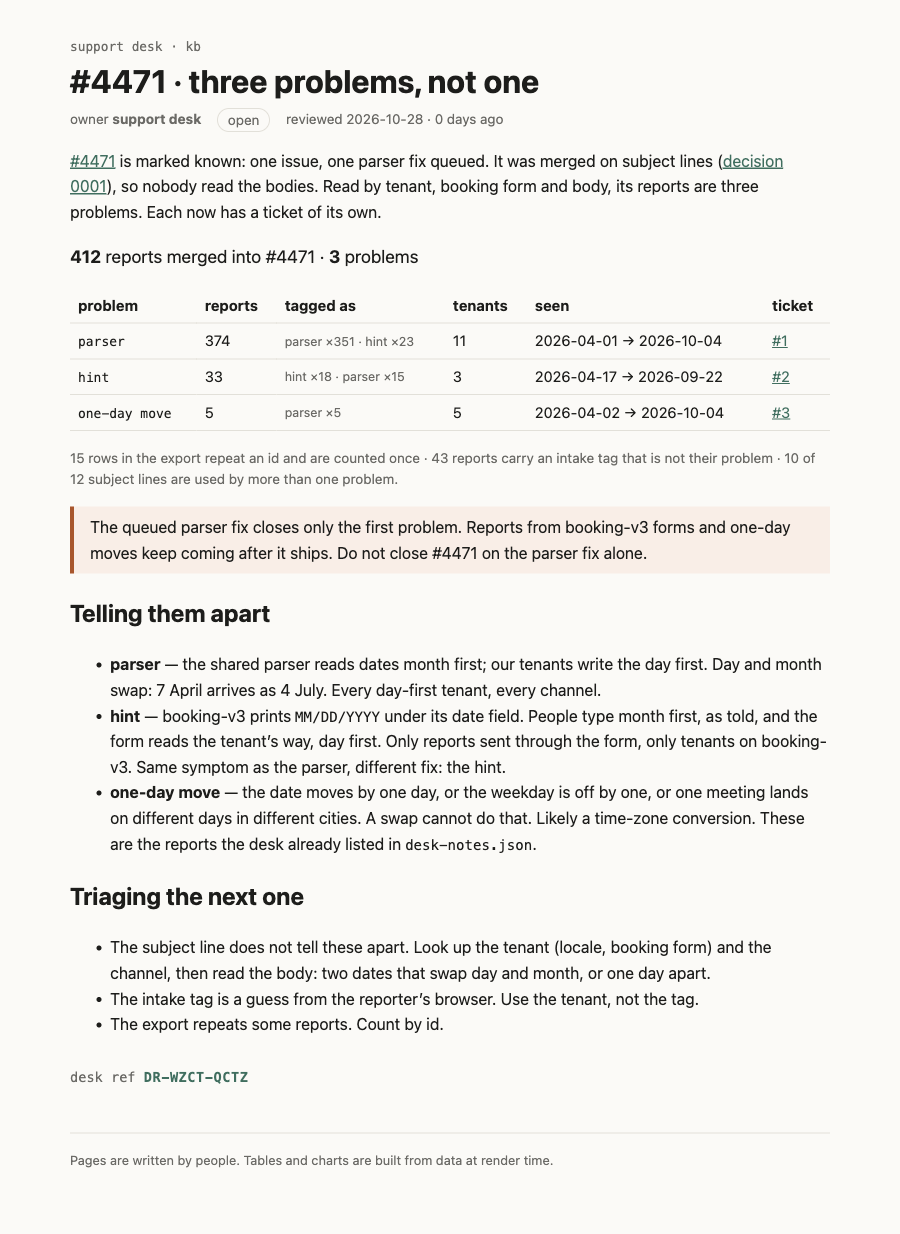
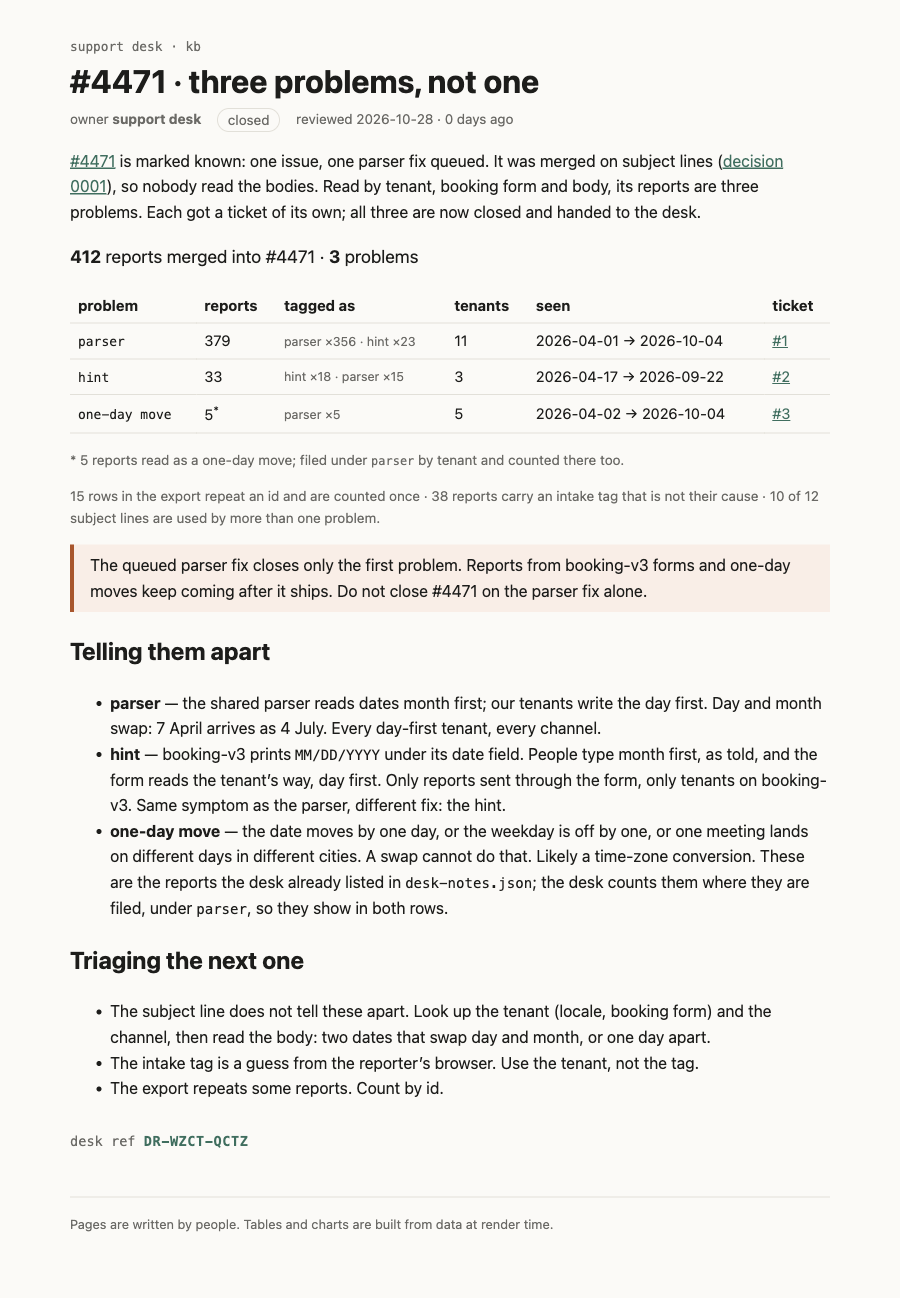
kb: count #4471 the desk's way and mark the page closed
The table now counts with causes.ts as CauseTable does (parser 379, hint 33);
the 5 one-day moves keep their own row and ticket (#3) and stay counted
under parser, footnoted. Status closed now that #1-#3 are closed.

Closes #1, closes #2, closes #3

diff --git a/rendered/kb/incidents/4471/problems.html b/rendered/kb/incidents/4471/problems.html
@@ -7,48 +7,50 @@
 		<link href="../../../_app/immutable/assets/runbook.9BJ9BomY.css" rel="stylesheet">
 		<link href="../../../_app/immutable/assets/Callout.89E4ZsOX.css" rel="stylesheet">
 		<link href="../../../_app/immutable/assets/5.DFZPpw6K.css" rel="stylesheet">
-		<link rel="modulepreload" href="../../../_app/immutable/entry/start.j34q6212.js">
-		<link rel="modulepreload" href="../../../_app/immutable/chunks/B_lZjKO2.js">
+		<link rel="modulepreload" href="../../../_app/immutable/entry/start.BfvUmVHq.js">
+		<link rel="modulepreload" href="../../../_app/immutable/chunks/DgwvHwfo.js">
 		<link rel="modulepreload" href="../../../_app/immutable/chunks/OUkhQVgo.js">
 		<link rel="modulepreload" href="../../../_app/immutable/chunks/ckwQM39j.js">
-		<link rel="modulepreload" href="../../../_app/immutable/entry/app.PN7NgpA0.js">
+		<link rel="modulepreload" href="../../../_app/immutable/entry/app.Di8nDS41.js">
 		<link rel="modulepreload" href="../../../_app/immutable/chunks/B8TagHf_.js">
 		<link rel="modulepreload" href="../../../_app/immutable/chunks/BBiQsO4w.js">
 		<link rel="modulepreload" href="../../../_app/immutable/chunks/bUiQWyxm.js">
 		<link rel="modulepreload" href="../../../_app/immutable/nodes/0.pCjtogOv.js">
 		<link rel="modulepreload" href="../../../_app/immutable/chunks/ZxS--dmv.js">
-		<link rel="modulepreload" href="../../../_app/immutable/nodes/5.d9WlOJNj.js">
-		<link rel="modulepreload" href="../../../_app/immutable/chunks/I3njgYyx.js">
+		<link rel="modulepreload" href="../../../_app/immutable/nodes/5.234NkasA.js">
+		<link rel="modulepreload" href="../../../_app/immutable/chunks/CSFHfQN2.js">
 		<link rel="modulepreload" href="../../../_app/immutable/chunks/CnOLKV4D.js">
 		<link rel="modulepreload" href="../../../_app/immutable/chunks/BDcFOay9.js">
 		<link rel="modulepreload" href="../../../_app/immutable/chunks/oxgkN3_B.js">
 		<link rel="modulepreload" href="../../../_app/immutable/chunks/iXLSwIXB.js"><!--[--><!--]--><title>#4471 · three problems, not one · support kb</title>
   </head>
   <body data-sveltekit-preload-data="hover">
-    <div style="display: contents"><!--[--><!--[--><!----><!----><div class="kb svelte-60g32v"><header><a class="crumb svelte-60g32v" href="/kb">support desk · kb</a> <h1 class="svelte-60g32v">#4471 · three problems, not one</h1> <p class="meta svelte-60g32v"><span>owner <b>support desk</b></span> <span class="status open svelte-60g32v">open</span> <span class="svelte-60g32v">reviewed 2026-10-28 · 0 days ago</span></p></header> <!--[!--><!--]--> <main><p><a href="/kb/incidents/4471">#4471</a> is marked known: one issue, one parser fix queued. It was merged on
+    <div style="display: contents"><!--[--><!--[--><!----><!----><div class="kb svelte-60g32v"><header><a class="crumb svelte-60g32v" href="/kb">support desk · kb</a> <h1 class="svelte-60g32v">#4471 · three problems, not one</h1> <p class="meta svelte-60g32v"><span>owner <b>support desk</b></span> <span class="status closed svelte-60g32v">closed</span> <span class="svelte-60g32v">reviewed 2026-10-28 · 0 days ago</span></p></header> <!--[!--><!--]--> <main><p><a href="/kb/incidents/4471">#4471</a> is marked known: one issue, one parser fix queued. It was merged on
 subject lines (<a href="/kb/decisions/0001-dedupe-by-subject">decision 0001</a>), so nobody read the bodies.
-Read by tenant, booking form and body, its reports are three problems. Each now has a ticket of its own.</p> <p class="sum svelte-g6p7f8"><strong>412</strong> reports merged into #4471 · <strong>3</strong> problems</p> <table><thead><tr><th>problem</th><th>reports</th><th>tagged as</th><th>tenants</th><th>seen</th><th>ticket</th></tr></thead><tbody><!--[--><tr class="svelte-g6p7f8"><td class="svelte-g6p7f8"><code>parser</code></td><td class="svelte-g6p7f8">374</td><td class="tags svelte-g6p7f8">parser ×351 · hint ×23</td><td class="svelte-g6p7f8">11</td><td class="svelte-g6p7f8">2026-04-01 → 2026-10-04</td><td class="svelte-g6p7f8"><!--[--><a href="https://github.com/BorislavStefanov31/support-kb/issues/1">#1</a><!--]--></td></tr><tr class="svelte-g6p7f8"><td class="svelte-g6p7f8"><code>hint</code></td><td class="svelte-g6p7f8">33</td><td class="tags svelte-g6p7f8">hint ×18 · parser ×15</td><td class="svelte-g6p7f8">3</td><td class="svelte-g6p7f8">2026-04-17 → 2026-09-22</td><td class="svelte-g6p7f8"><!--[--><a href="https://github.com/BorislavStefanov31/support-kb/issues/2">#2</a><!--]--></td></tr><tr class="svelte-g6p7f8"><td class="svelte-g6p7f8"><code>one-day move</code></td><td class="svelte-g6p7f8">5</td><td class="tags svelte-g6p7f8">parser ×5</td><td class="svelte-g6p7f8">5</td><td class="svelte-g6p7f8">2026-04-02 → 2026-10-04</td><td class="svelte-g6p7f8"><!--[--><a href="https://github.com/BorislavStefanov31/support-kb/issues/3">#3</a><!--]--></td></tr><!--]--></tbody></table> <p class="note svelte-g6p7f8">15 rows in the export repeat an id and are counted once ·
-  43 reports carry an intake tag that is not their problem ·
+Read by tenant, booking form and body, its reports are three problems. Each got a ticket of its
+own; all three are now closed and handed to the desk.</p> <p class="sum svelte-g6p7f8"><strong>412</strong> reports merged into #4471 · <strong>3</strong> problems</p> <table><thead><tr><th>problem</th><th>reports</th><th>tagged as</th><th>tenants</th><th>seen</th><th>ticket</th></tr></thead><tbody><!--[--><tr class="svelte-g6p7f8"><td class="svelte-g6p7f8"><code>parser</code></td><td class="svelte-g6p7f8">379<!--[!--><!--]--></td><td class="tags svelte-g6p7f8">parser ×356 · hint ×23</td><td class="svelte-g6p7f8">11</td><td class="svelte-g6p7f8">2026-04-01 → 2026-10-04</td><td class="svelte-g6p7f8"><!--[--><a href="https://github.com/BorislavStefanov31/support-kb/issues/1">#1</a><!--]--></td></tr><tr class="svelte-g6p7f8"><td class="svelte-g6p7f8"><code>hint</code></td><td class="svelte-g6p7f8">33<!--[!--><!--]--></td><td class="tags svelte-g6p7f8">hint ×18 · parser ×15</td><td class="svelte-g6p7f8">3</td><td class="svelte-g6p7f8">2026-04-17 → 2026-09-22</td><td class="svelte-g6p7f8"><!--[--><a href="https://github.com/BorislavStefanov31/support-kb/issues/2">#2</a><!--]--></td></tr><tr class="svelte-g6p7f8"><td class="svelte-g6p7f8"><code>one-day move</code></td><td class="svelte-g6p7f8">5<!--[--><sup>*</sup><!--]--></td><td class="tags svelte-g6p7f8">parser ×5</td><td class="svelte-g6p7f8">5</td><td class="svelte-g6p7f8">2026-04-02 → 2026-10-04</td><td class="svelte-g6p7f8"><!--[--><a href="https://github.com/BorislavStefanov31/support-kb/issues/3">#3</a><!--]--></td></tr><!--]--></tbody></table> <!--[--><p class="note svelte-g6p7f8">* 5 reports read as a one-day move; filed under <code>parser</code> by tenant and counted there too.</p><!--]--> <p class="note svelte-g6p7f8">15 rows in the export repeat an id and are counted once ·
+  38 reports carry an intake tag that is not their cause ·
   10 of 12 subject lines are used by more than one problem.</p><!----> <aside class="warn svelte-hdh0t2"><!---->The queued parser fix closes only the first problem. Reports from booking-v3 forms and one-day
 moves keep coming after it ships. Do not close #4471 on the parser fix alone.<!----></aside><!----> <h2>Telling them apart</h2> <ul><li><strong>parser</strong> — the shared parser reads dates month first; our tenants write the day first.
 Day and month swap: 7 April arrives as 4 July. Every day-first tenant, every channel.</li> <li><strong>hint</strong> — booking-v3 prints <code>MM/DD/YYYY</code> under its date field. People type month first, as
 told, and the form reads the tenant’s way, day first. Only reports sent through the form, only
 tenants on booking-v3. Same symptom as the parser, different fix: the hint.</li> <li><strong>one-day move</strong> — the date moves by one day, or the weekday is off by one, or one meeting lands
 on different days in different cities. A swap cannot do that. Likely a time-zone conversion.
-These are the reports the desk already listed in <code>desk-notes.json</code>.</li></ul> <h2>Triaging the next one</h2> <ul><li>The subject line does not tell these apart. Look up the tenant (locale, booking form) and the
+These are the reports the desk already listed in <code>desk-notes.json</code>; the desk counts them where
+they are filed, under <code>parser</code>, so they show in both rows.</li></ul> <h2>Triaging the next one</h2> <ul><li>The subject line does not tell these apart. Look up the tenant (locale, booking form) and the
 channel, then read the body: two dates that swap day and month, or one day apart.</li> <li>The intake tag is a guess from the reporter’s browser. Use the tenant, not the tag.</li> <li>The export repeats some reports. Count by id.</li></ul> <!--[--><p class="stamp svelte-5qojh0">desk ref <b class="svelte-5qojh0">DR-WZCT-QCTZ</b></p><!--]--><!----><!----></main> <footer class="svelte-60g32v">Pages are written by people. Tables and charts are built from data at render time.</footer></div><!----><!----><!----><!--]--> <!--[!--><!--]--><!--]-->
 			
 			<script>
 				{
-					__sveltekit_2ou2gn = {
+					__sveltekit_1t4ky7u = {
 						base: new URL("../../..", location).pathname.slice(0, -1)
 					};
 
 					const element = document.currentScript.parentElement;
 
 					Promise.all([
-						import("../../../_app/immutable/entry/start.j34q6212.js"),
-						import("../../../_app/immutable/entry/app.PN7NgpA0.js")
+						import("../../../_app/immutable/entry/start.BfvUmVHq.js"),
+						import("../../../_app/immutable/entry/app.Di8nDS41.js")
 					]).then(([kit, app]) => {
 						kit.start(app, element, {
 							node_ids: [0, 5],

diff --git a/src/lib/kb/ProblemTable.svelte b/src/lib/kb/ProblemTable.svelte
@@ -1,20 +1,40 @@
 <script lang="ts">
   import reports from '#lib/data/reports-4471.json';
   import notes from '#lib/data/desk-notes.json';
-  import { uniqueById, type Report } from '#lib/kb/causes';
-  import { groupByProblem, mistagged, sharedSubjects, type Problem } from '#lib/kb/problems';
+  import { groupByCause, readAs, uniqueById, type Report } from '#lib/kb/causes';
   import { tenantOf } from '#lib/kb/locales';
+  import { mistagged, sharedSubjects } from '#lib/kb/problems';
 
-  // tickets: the ticket each problem was filed as → its link.
-  let { ticket, tickets = {} }: { ticket: number; tickets?: Partial<Record<Problem, string>> } = $props();
+  // Counts the desk's way (causes.ts, as CauseTable does); the one-day moves the desk noted get a row
+  // and a ticket of their own, and stay counted where they're filed.
+  // tickets: problem → link to the ticket it was filed as.
+  let { ticket, tickets = {} }: { ticket: number; tickets?: Record<string, string> } = $props();
 
   const rows = $derived(reports as Report[]);
   const merged = $derived(uniqueById(rows).filter((r) => r.mergedInto === ticket));
-  const groups = $derived(groupByProblem(merged, tenantOf, notes.oneDayMove));
-  const subjects = $derived(sharedSubjects(groups));
+  const groups = $derived(groupByCause(merged, tenantOf));
+  const moved = $derived(groups.find((g) => readAs(g, notes.oneDayMove) > 0));
+  const problems = $derived([
+    ...groups.map((g) => ({ problem: g.cause as string, n: g.reports.length, taggedAs: g.taggedAs, tenants: g.tenants, seen: `${g.firstSeen} → ${g.lastSeen}`, filedUnder: null as string | null })),
+    ...(moved ? [oneDayRow(moved.cause)] : []),
+  ]);
+  const subjects = $derived(sharedSubjects(merged, tenantOf, notes.oneDayMove));
   const wrongTag = $derived(mistagged(groups));
-  const tags = (g: { taggedAs: Record<string, number> }) =>
-    Object.entries(g.taggedAs)
+
+  function oneDayRow(filedUnder: string) {
+    const rs = merged.filter((r) => notes.oneDayMove.includes(r.id));
+    const days = rs.map((r) => r.receivedAt.slice(0, 10)).sort();
+    return {
+      problem: 'one-day move',
+      n: rs.length,
+      taggedAs: rs.reduce<Record<string, number>>((n, r) => ({ ...n, [r.meta.intakeTag]: (n[r.meta.intakeTag] ?? 0) + 1 }), {}),
+      tenants: new Set(rs.map((r) => r.tenant)).size,
+      seen: `${days[0]} → ${days[days.length - 1]}`,
+      filedUnder,
+    };
+  }
+  const tags = (t: Record<string, number>) =>
+    Object.entries(t)
       .sort((a, b) => b[1] - a[1])
       .map(([tag, n]) => `${tag} ×${n}`)
       .join(' · ');
@@ -23,8 +43,8 @@
 
 <p class="sum">
   <strong>{merged.length}</strong> reports merged into #{ticket} ·
-  <strong>{groups.length}</strong>
-  {groups.length === 1 ? 'problem' : 'problems'}
+  <strong>{problems.length}</strong>
+  {problems.length === 1 ? 'problem' : 'problems'}
 </p>
 
 <table>
@@ -32,23 +52,26 @@
     <tr><th>problem</th><th>reports</th><th>tagged as</th><th>tenants</th><th>seen</th><th>ticket</th></tr>
   </thead>
   <tbody>
-    {#each groups as g (g.problem)}
-      {@const href = tickets[g.problem]}
+    {#each problems as p (p.problem)}
+      {@const href = tickets[p.problem]}
       <tr class:open={!href}>
-        <td><code>{g.problem}</code></td>
-        <td>{g.reports.length}</td>
-        <td class="tags">{tags(g)}</td>
-        <td>{g.tenants}</td>
-        <td>{g.firstSeen} → {g.lastSeen}</td>
+        <td><code>{p.problem}</code></td>
+        <td>{p.n}{#if p.filedUnder}<sup>*</sup>{/if}</td>
+        <td class="tags">{tags(p.taggedAs)}</td>
+        <td>{p.tenants}</td>
+        <td>{p.seen}</td>
         <td>{#if href}<a {href}>{ticketNo(href)}</a>{:else}no ticket yet{/if}</td>
       </tr>
     {/each}
   </tbody>
 </table>
 
+{#each problems.filter((p) => p.filedUnder) as p (p.problem)}
+  <p class="note">* {p.n} reports read as a one-day move; filed under <code>{p.filedUnder}</code> by tenant and counted there too.</p>
+{/each}
 <p class="note">
   {rows.length - uniqueById(rows).length} rows in the export repeat an id and are counted once ·
-  {wrongTag} reports carry an intake tag that is not their problem ·
+  {wrongTag} reports carry an intake tag that is not their cause ·
   {subjects.shared} of {subjects.all} subject lines are used by more than one problem.
 </p>
 

diff --git a/src/lib/kb/problems.ts b/src/lib/kb/problems.ts
@@ -1,57 +1,25 @@
-// Splits one big ticket into the problems its reports are really about. causes.ts places a report by
-// tenant and channel; desk-notes.json lists the reports the desk read as a one-day move, which a
-// day/month flip cannot explain, so they are a problem of their own.
-import { causeOf, type Report, type Tenant } from '#lib/kb/causes';
+// What the subject-line merge hid in a big ticket. causes.ts places a report by tenant and channel;
+// desk-notes.json lists the reports the desk read as a one-day move, which a day/month flip cannot
+// explain, so they are a problem of their own.
+import { causeOf, type CauseGroup, type Report, type Tenant } from '#lib/kb/causes';
 
-export type Problem = 'parser' | 'hint' | 'one-day move' | 'unplaced';
-
-export function problemOf(r: Report, t: Tenant | undefined, oneDayMove: readonly string[]): Problem {
+export function problemOf(r: Report, t: Tenant | undefined, oneDayMove: readonly string[]): string {
   if (oneDayMove.includes(r.id)) return 'one-day move';
   return causeOf(r, t) ?? 'unplaced';
 }
 
-export type ProblemGroup = {
-  problem: Problem;
-  reports: Report[];
-  taggedAs: Record<string, number>;
-  tenants: number;
-  firstSeen: string;
-  lastSeen: string;
-};
-
-export function groupByProblem(
+// Subject lines used by reports of more than one problem: the ones a subject-only merge cannot split.
+export function sharedSubjects(
   reports: Report[],
   tenantOf: (r: Report) => Tenant | undefined,
   oneDayMove: readonly string[],
-): ProblemGroup[] {
-  const byProblem = new Map<Problem, Report[]>();
-  for (const r of reports) {
-    const p = problemOf(r, tenantOf(r), oneDayMove);
-    byProblem.set(p, [...(byProblem.get(p) ?? []), r]);
-  }
-  return [...byProblem.entries()]
-    .map(([problem, rs]) => {
-      const days = rs.map((r) => r.receivedAt.slice(0, 10)).sort();
-      return {
-        problem,
-        reports: rs,
-        taggedAs: rs.reduce<Record<string, number>>((n, r) => ({ ...n, [r.meta.intakeTag]: (n[r.meta.intakeTag] ?? 0) + 1 }), {}),
-        tenants: new Set(rs.map((r) => r.tenant)).size,
-        firstSeen: days[0],
-        lastSeen: days[days.length - 1],
-      };
-    })
-    .sort((a, b) => b.reports.length - a.reports.length);
-}
-
-// Subject lines used by reports of more than one problem: the ones a subject-only merge cannot split.
-export function sharedSubjects(groups: ProblemGroup[]): { shared: number; all: number } {
-  const problems = new Map<string, Set<Problem>>();
-  for (const g of groups) for (const r of g.reports) problems.set(r.subject, (problems.get(r.subject) ?? new Set()).add(g.problem));
+): { shared: number; all: number } {
+  const problems = new Map<string, Set<string>>();
+  for (const r of reports) problems.set(r.subject, (problems.get(r.subject) ?? new Set()).add(problemOf(r, tenantOf(r), oneDayMove)));
   return { shared: [...problems.values()].filter((s) => s.size > 1).length, all: problems.size };
 }
 
-// Reports whose intake tag disagrees with the problem they belong to.
-export function mistagged(groups: ProblemGroup[]): number {
-  return groups.reduce((n, g) => n + g.reports.filter((r) => r.meta.intakeTag !== g.problem).length, 0);
+// Reports whose intake tag disagrees with the cause they are filed under.
+export function mistagged(groups: CauseGroup[]): number {
+  return groups.reduce((n, g) => n + g.reports.filter((r) => r.meta.intakeTag !== g.cause).length, 0);
 }
